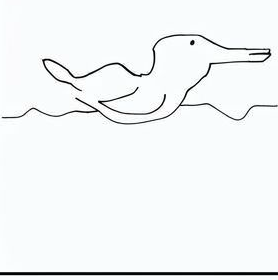
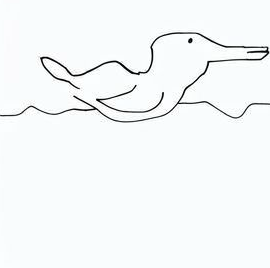
Style-fidelity prompt rework: sketch as sole style authority, anti-beautify rules, stretchable shotlist, adaptive thumbnails
Claude-Session: https://claude.ai/code/session_012bGe2BFCPWhoDwqhy49b2d

diff --git a/flipbook-generator/pipeline/generate.js b/flipbook-generator/pipeline/generate.js
@@ -33,23 +33,29 @@ if (!sketchPath || !motion) {
   process.exit(1)
 }
 
-// Optional per-frame storyboard: JSON array of N-1 strings describing frames 2..N.
-// Without it, pacing relies on the generic "1/N increment" rule alone.
-const shots = shotlistPath ? JSON.parse(fs.readFileSync(shotlistPath, 'utf8')) : null
-if (shots && shots.length !== N - 1) {
-  console.error(`Shotlist has ${shots.length} entries; need ${N - 1} (frames 2..${N})`)
-  process.exit(1)
+// Optional storyboard: JSON array of story beats. If its length isn't exactly
+// N-1, the beats are stretched proportionally across frames 2..N, so one
+// storyboard works for any frame count.
+const beats = shotlistPath ? JSON.parse(fs.readFileSync(shotlistPath, 'utf8')) : null
+
+function shotFor(n) {
+  if (!beats) return null
+  if (N === 2) return beats[beats.length - 1]
+  const idx = Math.round(((n - 2) / (N - 2)) * (beats.length - 1))
+  return beats[idx]
 }
 
-const STYLE_RULES = `Rules: identical hand-drawn black-line pencil sketch style as the reference images; white background; no shading; no text; no borders; ONE single frame, not a grid or sequence.
+const STYLE_RULES = `STYLE — this is the most important rule: the drawing must look poorly drawn, because that is the artist's style. Match the FIRST image's exact line quality: wobbly, uneven, naive, quickly-scribbled amateur pencil lines, awkward proportions and all. DO NOT clean up, refine, smooth, straighten, or beautify anything. DO NOT improve the anatomy or the line work. Every frame must look like the same untrained hand drew it in the same hurried sitting as the FIRST image. If your frame looks more skillful than the FIRST image, it is wrong.
+Other rules: white background; no shading; no text; no borders or frame edges; ONE single frame, not a grid or sequence.
 The waterline stays at exactly the same height as in the reference images. The subject stays exactly the same size and same character design. When the subject is underwater, draw it in lighter gray lines.`
 
 function framePrompt(n) {
-  const shot = shots ? `\nThis frame shows: ${shots[n - 2]}` : ''
+  const shot = shotFor(n)
   return `Animation: ${motion}
 You are drawing frame ${n} of a ${N}-frame flipbook animation.
-The FIRST attached image is the previous frame (frame ${n - 1}). The SECOND attached image is frame 1, the original sketch — match its exact drawing style and character design.
-Draw the next frame: advance the motion by exactly 1/${N} of the total action — a small, even step past the previous frame. Do not finish the action early; the motion completes exactly at frame ${N}.${shot}
+The FIRST attached image is frame 1: the original sketch. It is the ONLY style authority.
+The SECOND attached image is the previous frame (frame ${n - 1}): use it ONLY for pose and motion continuity, NOT for style.
+Draw the next frame: advance the motion by exactly 1/${N} of the total action — a very small, even step past the previous frame. Do not finish the action early; the motion completes exactly at frame ${N}.${shot ? `\nThis part of the motion: ${shot}` : ''}
 ${STYLE_RULES}`
 }
 
@@ -80,7 +86,7 @@ for (let n = 2; n <= N; n++) {
   const output = await replicate.run(MODEL, {
     input: {
       prompt: framePrompt(n),
-      image_input: [prev, sketch],
+      image_input: [sketch, prev],
       aspect_ratio: '1:1',
       output_format: 'png',
     },

diff --git a/flipbook-generator/scrubber-demo/src/App.jsx b/flipbook-generator/scrubber-demo/src/App.jsx
@@ -244,7 +244,9 @@ export default function App() {
         if (manifest?.frames?.length) {
           const first = await loadImage(manifest.frames[0])
           setAspect(first.naturalWidth / first.naturalHeight)
-          setPages(manifest.frames.map((src, i) => ({ src, keyIndex: i })))
+          // with many frames, thumbnail only every few pages to keep the strip readable
+          const step = Math.max(1, Math.round(manifest.frames.length / 12))
+          setPages(manifest.frames.map((src, i) => ({ src, keyIndex: i % step === 0 ? i : null })))
           return
         }
         // in-between grid is optional — keyframes-only flipbook until it exists
